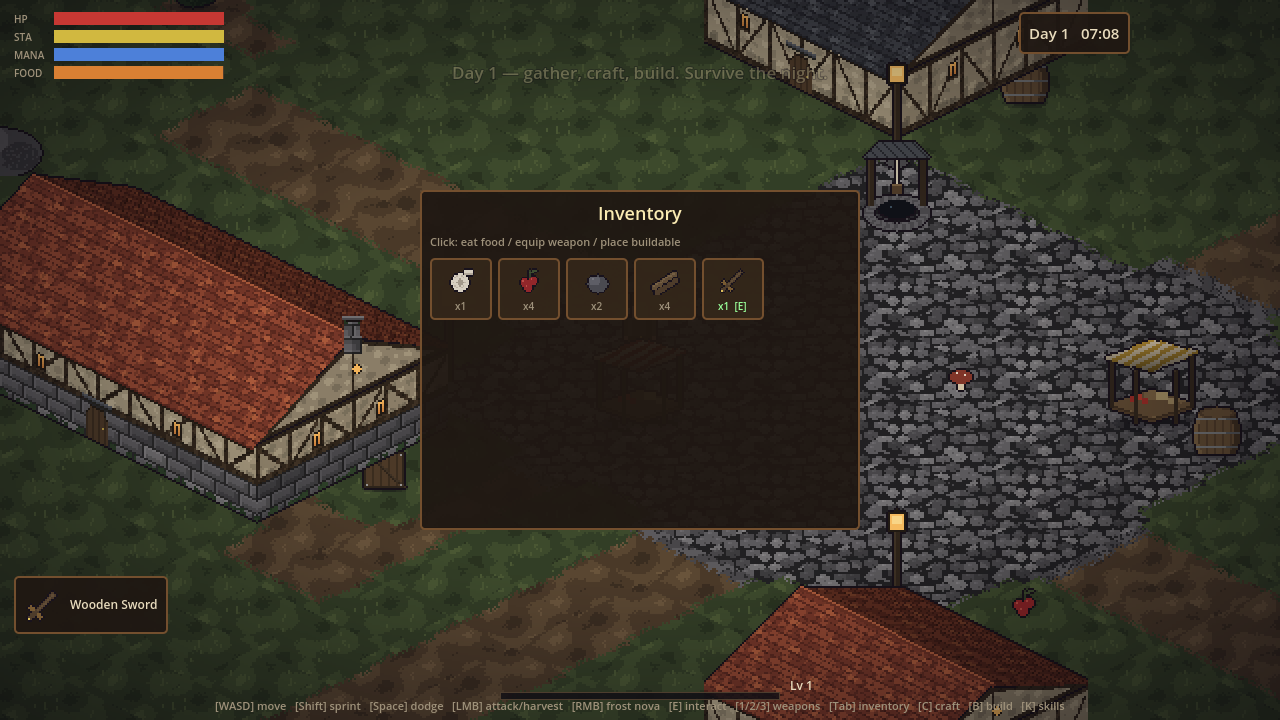
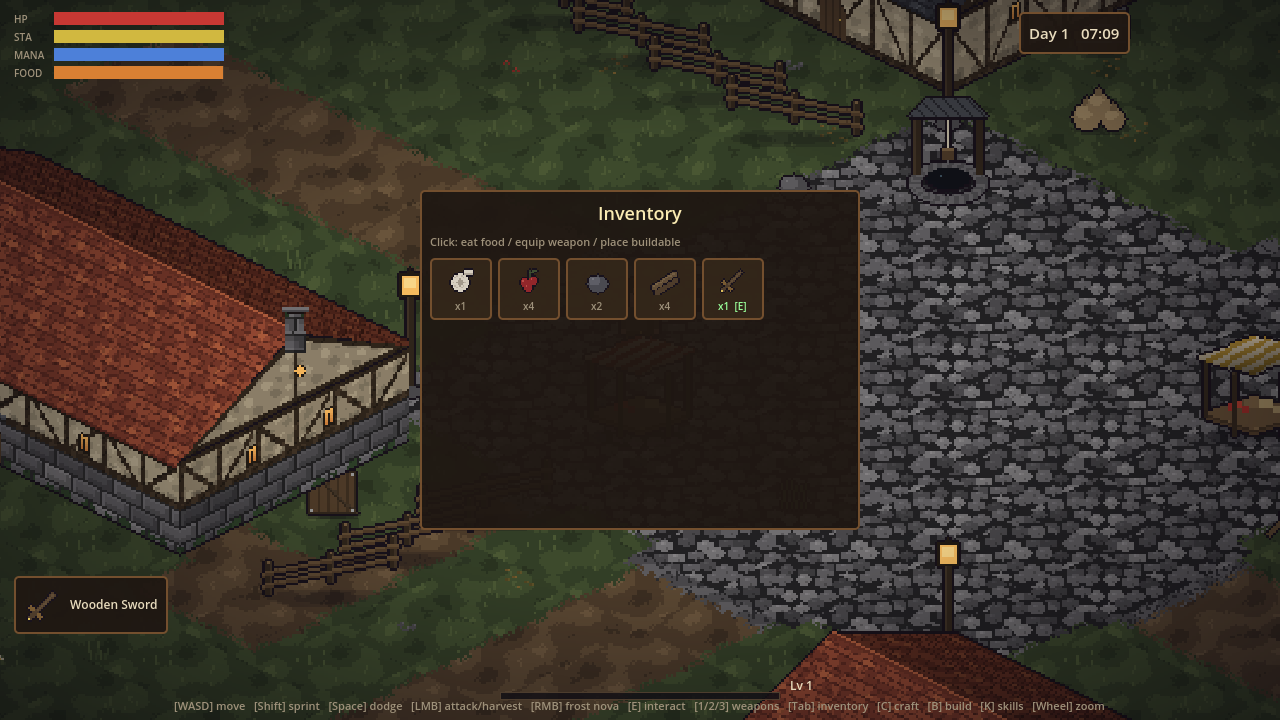
Denser world dressing, ground clutter, and mouse-wheel zoom
- Mouse wheel zooms the camera smoothly (1.1x-3.6x); default view is
  closer (2.4x) for a more intimate read of the pixel art
- New street props in both settlements: post-and-rail fences around
  cottage gardens (both iso directions), hay carts, woodpiles, and
  grain sacks — all lootable/breakable like other props
- Ground clutter pass: meadow flowers, poppies, pebbles, tall grass
  tufts, fallen leaves under trees, and wear stains on roads/plazas,
  scattered as ~1500 cheap decals for reference-image density

https://claude.ai/code/session_01QWSZy1g7crafKAx86Grg4Q

diff --git a/medieval-zombie-survival/tools/generate_assets.py b/medieval-zombie-survival/tools/generate_assets.py
@@ -1981,6 +1981,129 @@ def round_tower():
     return with_shadow(outline(im), cx, 89, r + 3, 5)
 
 
+def fence_sprite():
+    """Post-and-rail fence along the NW-SE iso axis (flip_h for the other)."""
+    im = new(64, 44)
+    def base_y(x):
+        return 26 + (x - 4) * 12.0 / 56.0
+    for px_, post_h in ((6, 13), (32, 12), (58, 13)):
+        by = base_y(px_)
+        rect(im, px_ - 1, by - post_h, px_ + 1, by, TIMBER[1] + (255,))
+        rect(im, px_ - 1, by - post_h, px_ - 1, by, TIMBER[2] + (255,))
+        px(im, px_, by - post_h, WOOD[3] + (255,))
+    for rail_off in (9, 4):
+        for x in range(4, 61):
+            y = base_y(x) - rail_off
+            c = WOOD[2] if (x % 9) else WOOD[1]
+            px(im, x, y, c + (255,))
+            px(im, x, y + 1, WOOD[1] + (255,))
+    return with_shadow(outline(im), 32, 39, 26, 4, alpha=45)
+
+
+def cart_sprite():
+    im = new(56, 46)
+    disc(im, 38, 34, 6.5, 6.5, TIMBER[1] + (255,))
+    disc(im, 38, 34, 4.5, 4.5, WOOD[1] + (255,))
+    for y in range(16):
+        for x in range(40):
+            if in_diamond(x, y, 40, 16):
+                c = WOOD[2] if ((x + y * 2) % 7) else WOOD[1]
+                px(im, x + 6, y + 18, c + (255,))
+    for y in range(16):
+        for x in range(40):
+            if in_diamond(x, y, 40, 16) and not in_diamond(x, y + 1, 40, 16):
+                px(im, x + 6, y + 19, WOOD[0] + (255,))
+                px(im, x + 6, y + 20, WOOD[1] + (255,))
+    rngh = random.Random(3)
+    disc(im, 26, 22, 13, 6, (152, 128, 62, 255))
+    disc(im, 24, 20, 9, 4.4, (176, 150, 76, 255))
+    for i in range(26):
+        hx = 26 + rngh.randint(-12, 12)
+        hy = 21 + rngh.randint(-5, 5)
+        px(im, hx, hy, (196, 170, 90, 255) if rngh.random() < 0.5 else (140, 116, 56, 255))
+    disc(im, 16, 38, 7, 7, TIMBER[0] + (255,))
+    disc(im, 16, 38, 5, 5, WOOD[1] + (255,))
+    disc(im, 16, 38, 1.6, 1.6, IRON[1] + (255,))
+    line(im, 16, 33, 16, 43, TIMBER[1] + (255,))
+    line(im, 11, 38, 21, 38, TIMBER[1] + (255,))
+    line(im, 44, 28, 54, 24, WOOD[2] + (255,), w=2)
+    line(im, 6, 30, 2, 34, WOOD[2] + (255,), w=2)
+    return with_shadow(outline(im), 28, 42, 22, 5)
+
+
+def woodpile_sprite():
+    im = new(42, 30)
+    rngw = random.Random(5)
+    for n, ring_r, by in [(4, 5, 24), (3, 4, 19), (2, 3, 14)]:
+        for i in range(n):
+            cx = 21 + (i - (n - 1) / 2.0) * 9
+            line(im, cx, by, cx + 7, by - 4, WOOD[1] + (255,), w=2)
+            disc(im, cx, by, 4, 4, WOOD[2] + (255,))
+            disc(im, cx, by, 2.4, 2.4, WOOD[3] + (255,))
+            px(im, cx, by, WOOD[1] + (255,))
+            if rngw.random() < 0.5:
+                px(im, cx - 1, by - 1, WOOD[3] + (255,))
+    return with_shadow(outline(im), 21, 27, 17, 4)
+
+
+def sacks_sprite():
+    im = new(30, 24)
+    for sx, sy, r in ((9, 16, 6), (20, 17, 5), (14, 11, 5)):
+        disc(im, sx, sy, r, r * 0.9, (150, 128, 95, 255))
+        disc(im, sx - 1, sy - 2, r * 0.6, r * 0.5, (172, 150, 114, 255))
+        rect(im, sx - 1, sy - r - 1, sx + 1, sy - r + 1, (124, 104, 76, 255))
+        px(im, sx, sy - r - 2, (104, 86, 62, 255))
+    return with_shadow(outline(im), 15, 21, 12, 3)
+
+
+def make_clutter():
+    """Tiny ground decals scattered across the map for density."""
+    out = {}
+    im = new(12, 12)  # white/yellow meadow flowers
+    for fx, fy in ((3, 7), (8, 5), (6, 9)):
+        line(im, fx, fy, fx, fy + 2, GRASS[2] + (255,))
+        px(im, fx, fy - 1, (224, 218, 200, 255))
+        px(im, fx - 1, fy, (224, 218, 200, 255))
+        px(im, fx + 1, fy, (224, 218, 200, 255))
+        px(im, fx, fy, (208, 174, 78, 255))
+    out["flower_a"] = im
+    im = new(12, 12)  # red poppies
+    for fx, fy in ((4, 6), (8, 9)):
+        line(im, fx, fy, fx, fy + 2, GRASS[2] + (255,))
+        px(im, fx, fy - 1, (160, 56, 48, 255))
+        px(im, fx - 1, fy, (138, 44, 40, 255))
+        px(im, fx + 1, fy, (138, 44, 40, 255))
+    out["flower_b"] = im
+    im = new(12, 8)  # pebbles
+    for px_, py, r in ((3, 5, 1.6), (8, 4, 1.4), (6, 6, 1.2)):
+        disc(im, px_, py, r, r * 0.8, STONE[1] + (255,))
+        px(im, px_ - 1, py - 1, STONE[2] + (255,))
+    out["pebbles"] = im
+    im = new(12, 12)  # tall grass tuft
+    for i, bx in enumerate((3, 5, 7, 9)):
+        h = 4 + (i % 2) * 3
+        line(im, bx, 11, bx + (1 if i % 2 else -1), 11 - h, GRASS[2 + (i % 2)] + (255,))
+    out["tuft"] = im
+    im = new(14, 10)  # fallen leaves
+    rngl = random.Random(8)
+    for i in range(8):
+        lx, ly = rngl.randint(1, 12), rngl.randint(1, 8)
+        c = (120, 96, 50, 255) if rngl.random() < 0.5 else (96, 84, 44, 255)
+        px(im, lx, ly, c)
+        if rngl.random() < 0.5:
+            px(im, lx + 1, ly, shade(c, 0.85))
+    out["leaves"] = im
+    im = new(16, 10)  # dark stain / wear on roads
+    rngs = random.Random(9)
+    for i in range(22):
+        sx, sy = rngs.randint(1, 14), rngs.randint(1, 8)
+        if (sx - 8) ** 2 / 49.0 + (sy - 5) ** 2 / 16.0 <= 1.0:
+            px(im, sx, sy, (30, 26, 28, rngs.randint(36, 80)))
+    out["stain"] = im
+    for name, img in out.items():
+        save(img, "clutter/%s.png" % name)
+
+
 def make_town_buildings():
     save(make_building(3, 3, 30, 26, "timber", sd=0.0, door_fx=48,
                        windows_left=(20,), windows_right=(28, 62), chimney=(16, False)),
@@ -2004,6 +2127,11 @@ def make_town_buildings():
          "buildings/manor.png")
     save(well_sprite(), "buildings/well.png")
     save(lamp_post_sprite(), "buildings/lamp_post.png")
+    save(fence_sprite(), "props/fence.png")
+    save(cart_sprite(), "props/cart.png")
+    save(woodpile_sprite(), "props/woodpile.png")
+    save(sacks_sprite(), "props/sacks.png")
+    make_clutter()
     save(market_stall((150, 44, 40)), "props/stall_red.png")
     save(market_stall((178, 142, 54)), "props/stall_yellow.png")
     save(barrel_sprite(), "props/barrel.png")

diff --git a/medieval-zombie-survival/README.md b/medieval-zombie-survival/README.md
@@ -38,6 +38,7 @@ horde grows larger and more aggressive every day.
 | `C` | Crafting |
 | `B` | Build menu |
 | `K` | Skill trees |
+| Mouse wheel | Zoom in / out |
 | `Esc` | Close panels / cancel build mode |
 
 ### Survival loop
